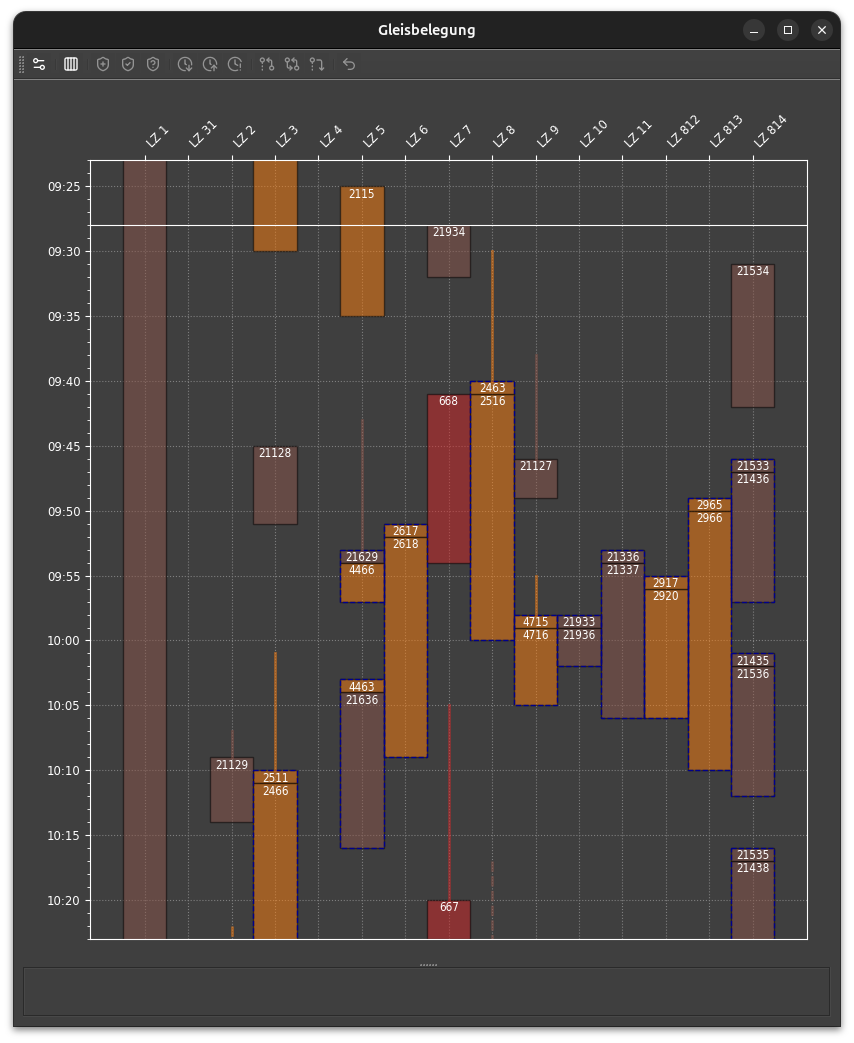
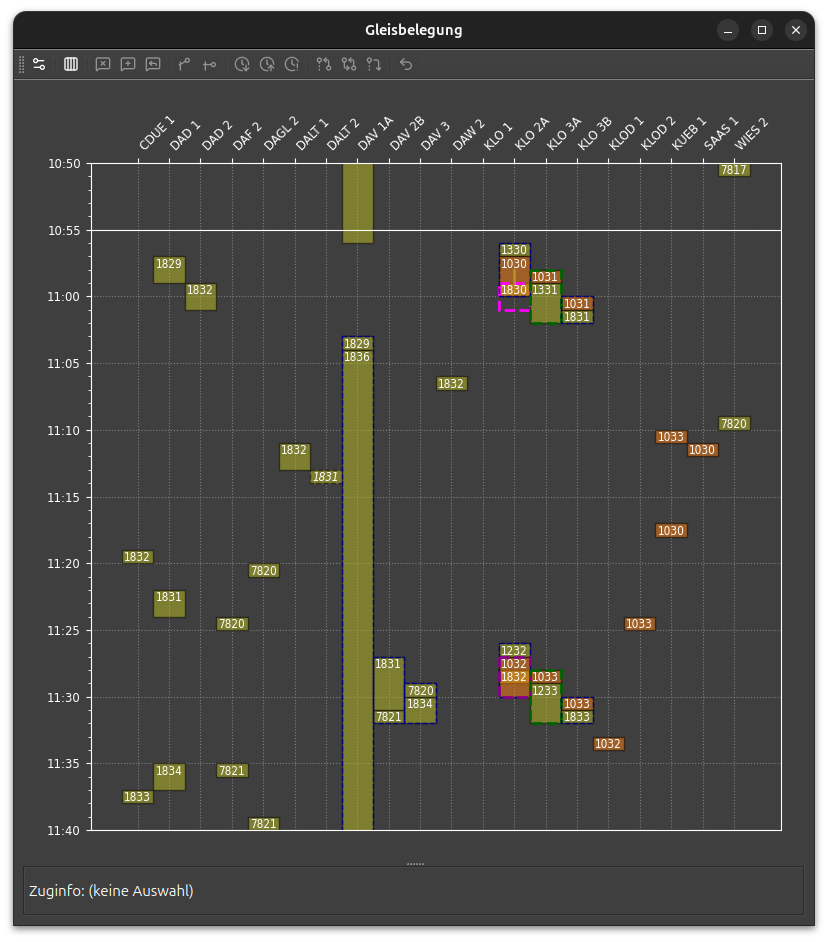
Dokumentation: Manöver in Gleisbelegung

Changed region(s): [[0.0302, 0.0924, 0.9662, 0.9851], [0.0, 0.0, 0.9964, 0.0924]]

diff --git a/docs/de/gleisbelegung.md b/docs/de/gleisbelegung.md
@@ -1,6 +1,6 @@
 # Gleisbelegung
 
-![stskit-screen-gleisbelegung](../img/gleisbelegung.png)
+![Balkendiagramm Gleisbelegung (Stw Klosters)](../img/gleisbelegung.png)
 
 ## Markierungen
 
@@ -10,10 +10,10 @@
 - Manöver:
     - Nummernwechsel (dunkelblauer, gestrichelter Rahmen)
     - Flügelung (dunkelgrüner, gestrichelter Rahmen)
-    - Kupplung (violetter oder rosa, gestrichelter Rahmen):
-        Bei planmässiger Ankunftsreihenfolge ist die Markierung violett.
-        Wenn die Züge nicht planmässig ankommen (rosa), muss der Fdl dafür sorgen, dass sie in der richtigen Reihenfolge zum Kuppeln eintreffen.
-    - Lokwechsel, Lokumlauf (violetter, ausgezogener Rahmen)
+    - Kupplung (gestrichelter Rahmen in Magenta):
+        Bei planmässiger Ankunftsreihenfolge ist die Markierung dunkelmagenta.
+        Wenn die Züge nicht planmässig ankommen (magenta), muss der Fdl dafür sorgen, dass sie in der richtigen Reihenfolge zum Kuppeln eintreffen.
+    - Lokwechsel, Lokumlauf (dünner ausgezogener Rahmen in Magenta)
 - Konflikte:
     - Gleiskonflikte (roter Rahmen): Der Sim meldet eine mögliche Doppelbelegung.
         Ein Gleiswechsel ist nötig, oder ein Zug muss aufgehalten werden.
@@ -49,6 +49,23 @@ Um eine Abhängigkeit zu setzen, müssen zwei Balken ausgewählt werden.
 Der erste (Auswahl, gelb) markiert den wartenden Zug, der zweite (Referenz, hellblau) den abzuwartenden Zug.
 Auf den Hintergrund klicken, um die Auswahl aufzuheben.
 
+## Beispiel: Manöver
+
+Die folgenden Ausschnitte[^1] zeigen die verschiedenen Manöver Nummernwechsel, Flügeln und Kuppeln.
+Im ersten Fall verkehren alle Züge ohne Verspätung.
+Der Fdl muss keine besonderen Vorkehrungen treffen.
+
+![Ordnungsgemässer Betriebsablauf](../img/gleisbelegung-detail-normal.png)
+
+- Der Zug 1033 führt einen Nummernwechsel zu 1833 durch.
+- Der Zug 1033 teilt sich auf (flügeln). Der zweite Zug hat die Nummer 1233.
+- Der Zug 1232 wechselt zuerst die Nummer zu 1032 und kuppelt dann mit dem später ankommenden 1832.
+
+Wenn ein kuppelnder Zug verspätet ist, muss je nach örtlichen Gegebenheiten die Kupplungsreihenfolge beachtet werden.
+Das Gleisbelegungsdiagramm zeigt eine Warnung in Magenta an:
+
+![Gestörter Betriebsablauf](../img/gleisbelegung-detail-gestoert.png)
+
 
 ## :bootstrap-actionSetup: Einstellungen
 
@@ -56,3 +73,5 @@ Auf der Einstellungsseite werden die dargestellten Gleise in einem Baumdiagramm 
 Es können einzelne Gleise oder auch Bahnhofteile oder Bahnhöfe aus- oder abgewählt werden.
 
 Nach erfolgter Auswahl, nochmal auf den :bootstrap-actionSetup:-Knopf klicken, um zur Grafik zurückzukehren. 
+
+[^1]: Stellwerk Klosters (Ostschweiz)